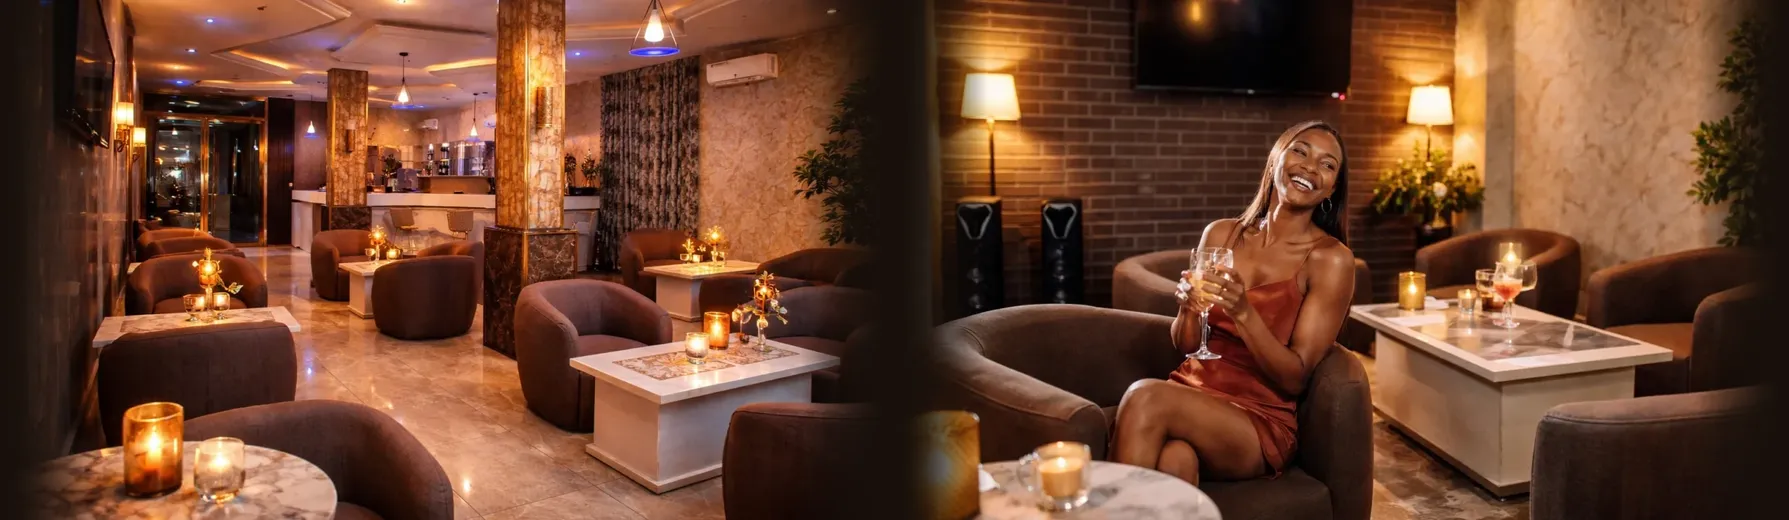
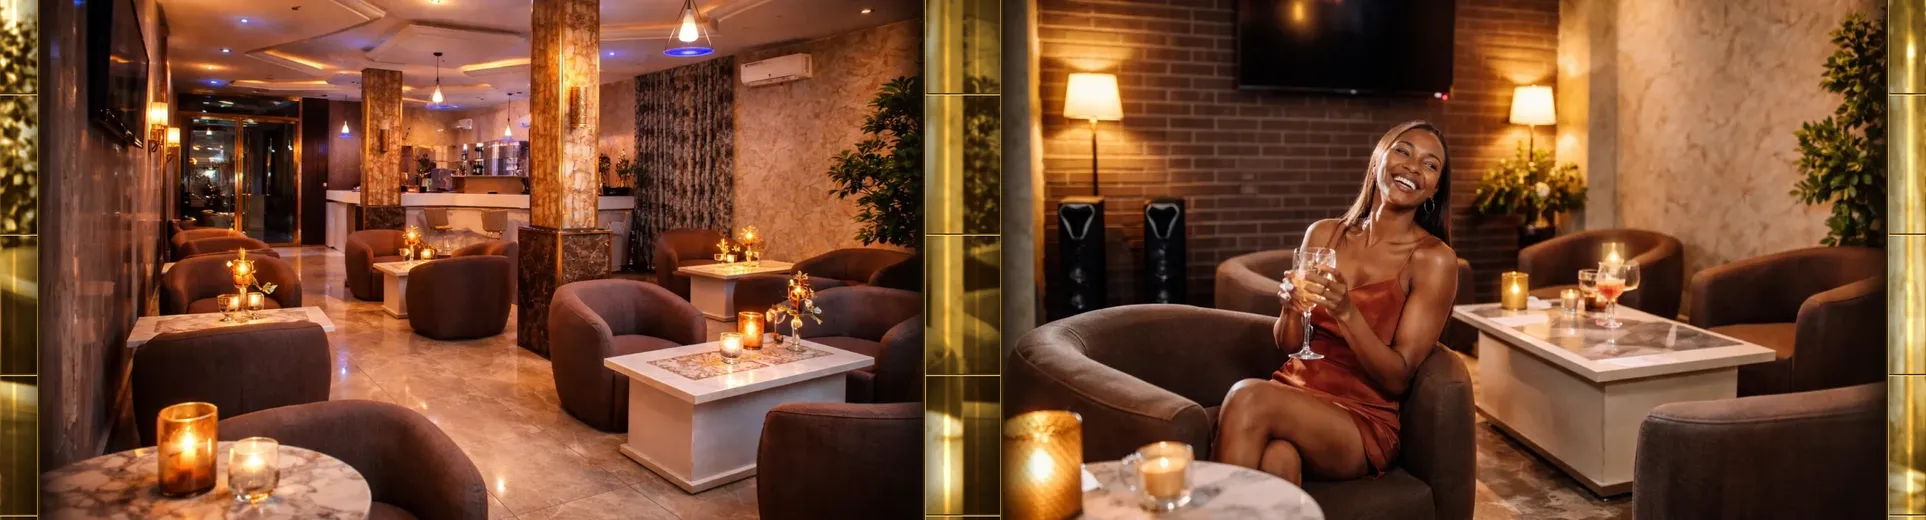
Notes Life: golden mirror pillars join the VIP bar 360° view
Claude-Session: https://claude.ai/code/session_014YUCojVUYbQrveaVgUJMCC

diff --git a/components/life/VipPano.tsx b/components/life/VipPano.tsx
@@ -2,10 +2,11 @@
 
 import { useEffect, useRef } from "react";
 
-// The real VIP bar at the Candellux, as a 360° strip players can look around: the lounge and the guest corner joined into one
-// panorama (public/images/life/partners/candellux-vip-360.webp, 1789 × 520, made so that two copies side by side join up). It
+// The real VIP bar at the Candellux, as a 360° strip players can look around: the lounge and the guest corner joined by golden
+// mirror pillars into one panorama (public/images/life/partners/candellux-vip-360.webp, 1926 × 520; half a pillar at each end, so
+// copies side by side join up). It
 // pans slowly by itself; a drag or swipe takes over, and it wraps round both ways.
-const SRC = "/images/life/partners/candellux-vip-360.webp", W = 1789, H = 520;
+const SRC = "/images/life/partners/candellux-vip-360.webp", W = 1926, H = 520;
 
 export default function VipPano() {
   const box = useRef<HTMLDivElement>(null);
